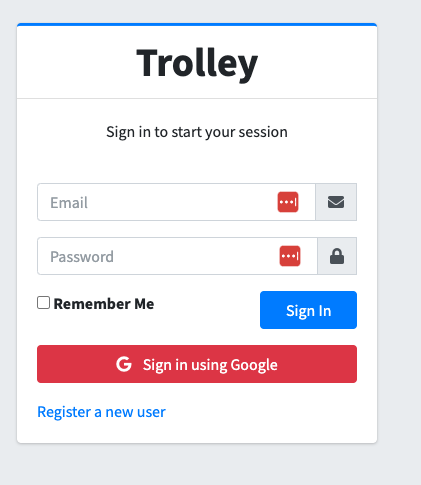
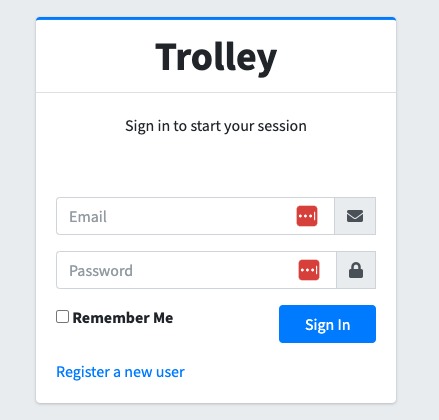
added new documentation

diff --git a/web/templates/login.html b/web/templates/login.html
@@ -60,11 +60,6 @@
                 </div>
             </form>
 
-            <div class="social-auth-links text-center mt-2 mb-3">
-                <a href="#" class="btn btn-block btn-danger">
-                    <i class="fab fa-google mr-2"></i> Sign in using Google
-                </a>
-            </div>
             <!-- /.social-auth-links -->
 
             <!--      <p class="mb-1">-->

diff --git a/README.md b/README.md
@@ -42,9 +42,41 @@ It should look something like this: ghp_XXXXXXXXXXXXXXXX
 Set your Environment Variables menu the following:
 
     ```
-    PYTHONUNBUFFERED=1;SECRET_KEY=<44_chars_binary>;GCP_PROJECT_NAME=<gcp_project_name>;GITHUB_ACTION_TOKEN=ghp_<token>;GITHUB_REPOSITORY=Trolley-MGMT/Trolley-Management;KUBECONFIG=/Users/<your_user>/.kube/config_temp;MONGO_PASSWORD=<mongo_password>;MONGO_URL=<mongo_url>;MONGO_USER=<mongo_user>;PROJECT_NAME=trolley
+    SECRET_KEY=<44_chars_binary>;GITHUB_ACTION_TOKEN=ghp_<token>;GITHUB_REPOSITORY=Trolley-MGMT/Trolley-Management;KUBECONFIG=/Users/<your_user>/.kube/config_temp;MONGO_PASSWORD=<mongo_password>;MONGO_URL=<mongo_url>;MONGO_USER=<mongo_user>;PROJECT_NAME=trolley
     ```
+    
+    The used parameters are:
+    
+    ### General Trolley parameters
+    ```
+    SECRET_KEY(str): This 44 chars long key is needed for the encryption in the application. 
+    String example: 65L2Is2PGz9fMCSrg8eTRL1kcXDmH9BRS83JQ0YItqE0
+    ```
+    
+    ```
+    GITHUB_ACTION_TOKEN(str):  This 44 chars long token allows the application to trigger GitHub Actions which will build EKS/GKE/AKS clusters using your forked Trolley GitHub Repository.
+    String example: ghp_p7R7O4mllCQTl1F5tQdyWS5Y6RWjRNU1ACH9
+    ```
+    
+    ````
+    KUBECONFIG(str): Default location of your kubeconfig file with the build Kubernetes cluster definitions String example: /Users/<your_user>/.kube/config
+    ````
+    ### Mongo DB parameters
 
+    ````
+    MONGO_URL: str The URL for the Mongo installation. This can be either a local installation
+    String example: localhost
+    Or a Atlas DB installation:  
+    String example: trolley-fork.something.mongodb.net
+    ````
+    More info here: [Atlas DB Tutorial](https://www.mongodb.com/basics/mongodb-atlas-tutorial)
+    ````
+    MONGO_PASSWORD(str): Mongo DB Password
+    ````
+    ````
+    MONGO_USER(str): Mongo DB User
+    ````
+    
 7. To run the app in your IDE just set the script path to web/main.py and it should work from there
 
 
@@ -62,53 +94,29 @@ The project uses GitHub Actions functionality in order to build/monitor and dele
 In order to work with them properly we will need to pass AWS/GCP/Azure/Mongo related parameters.
 Here are the parameters:
 
-`
-ACTION_TOKEN(mandatory) = "ghp_xxxxxxxxxx"
-`
+    
+    ACTION_TOKEN(mandatory) = "ghp_xxxxxxxxxx"
+    
+    AWS_ACCESS_KEY_ID(mandatory for aws) = "AKIAIOSFODNN7EXAMPLE"
 
-`
-AWS_ACCESS_KEY_ID(mandatory for aws) = "AKIAIOSFODNN7EXAMPLE"
-`
+    AWS_SECRET_ACCESS_KEY(mandatory for aws) = "wJalrXUtnFEMI/K7MDENG/bPxRfiCYEXAMPLEKEY"
 
-`
-AWS_SECRET_ACCESS_KEY(mandatory for aws) = "wJalrXUtnFEMI/K7MDENG/bPxRfiCYEXAMPLEKEY"
-`
+    AZURE_CREDENTIALS(mandatory for azure) = "d8er22sc-0000-5esd-be90-example"
 
-`
-AZURE_CREDENTIALS(mandatory for azure) = "d8er22sc-0000-5esd-be90-example"
-`
+    DOCKERHUB_TOKEN(mandatory) = "dckr_pat_example-example"
 
-`
-DOCKERHUB_TOKEN(mandatory) = "dckr_pat_example-example"
-`
+    DOCKERHUB_USER(mandatory) = "yourname"
 
-`
-DOCKERHUB_USER(mandatory) = "yourname"
-`
+    GCP_PROJECT_ID(mandatory for gcp) = "something-something"
 
-`
-GCP_PROJECT_ID(mandatory for gcp) = "something-something"
-`
+    GOOGLE_CREDS_JSON(mandatory for gcp) = "{gcp_service_account json}"
 
-`
-GOOGLE_CREDS_JSON(mandatory for gcp) = "{gcp_service_account json}"
-`
-### Mongo parameters are for cases when we have a remote installed MongoDB we want to work with
-`
-MONGO_PASSWORD(optional) = "mongopassword"
-`
+    MONGO_PASSWORD(optional) = "mongopassword"
 
-`
-MONGO_URL(optional) = "mongourl"
-`
+    MONGO_URL(optional) = "mongourl"
 
-`
-MONGO_USER(optional) = "mongouser"
-`
+    MONGO_USER(optional) = "mongouser"
 
-`
-PROJECT_NAME = "trolley"
-`
 
 ## UI Overview
 The UI currently consists of the following flows:
@@ -117,14 +125,18 @@ This is the Registration menu that will allow the user to register with his curr
 
 ![](documentation/register.png)
 
+The first user to register will become an Admin user in the IT team.
+He will be able to invite new users to the system.
 
 This is the Login menu that will allow the users to login to the system
 
 ![](documentation/login.png)
 
-Under the Settings menu we have an option to add credentials of the cloud provider we want to work with.
+Under the Settings menu we have an option to add credentials of the cloud provider we want to work with and for our forked repository.
 
-![](documentation/credentials.png)
+![](documentation/aws-settings.png)
+![](documentation/gcp-settings.png)
+![](documentation/azure-settings.png)
 
 ### Building AKS/GKE/EKS clusters
 ![](documentation/build_aks_clusters.png)
